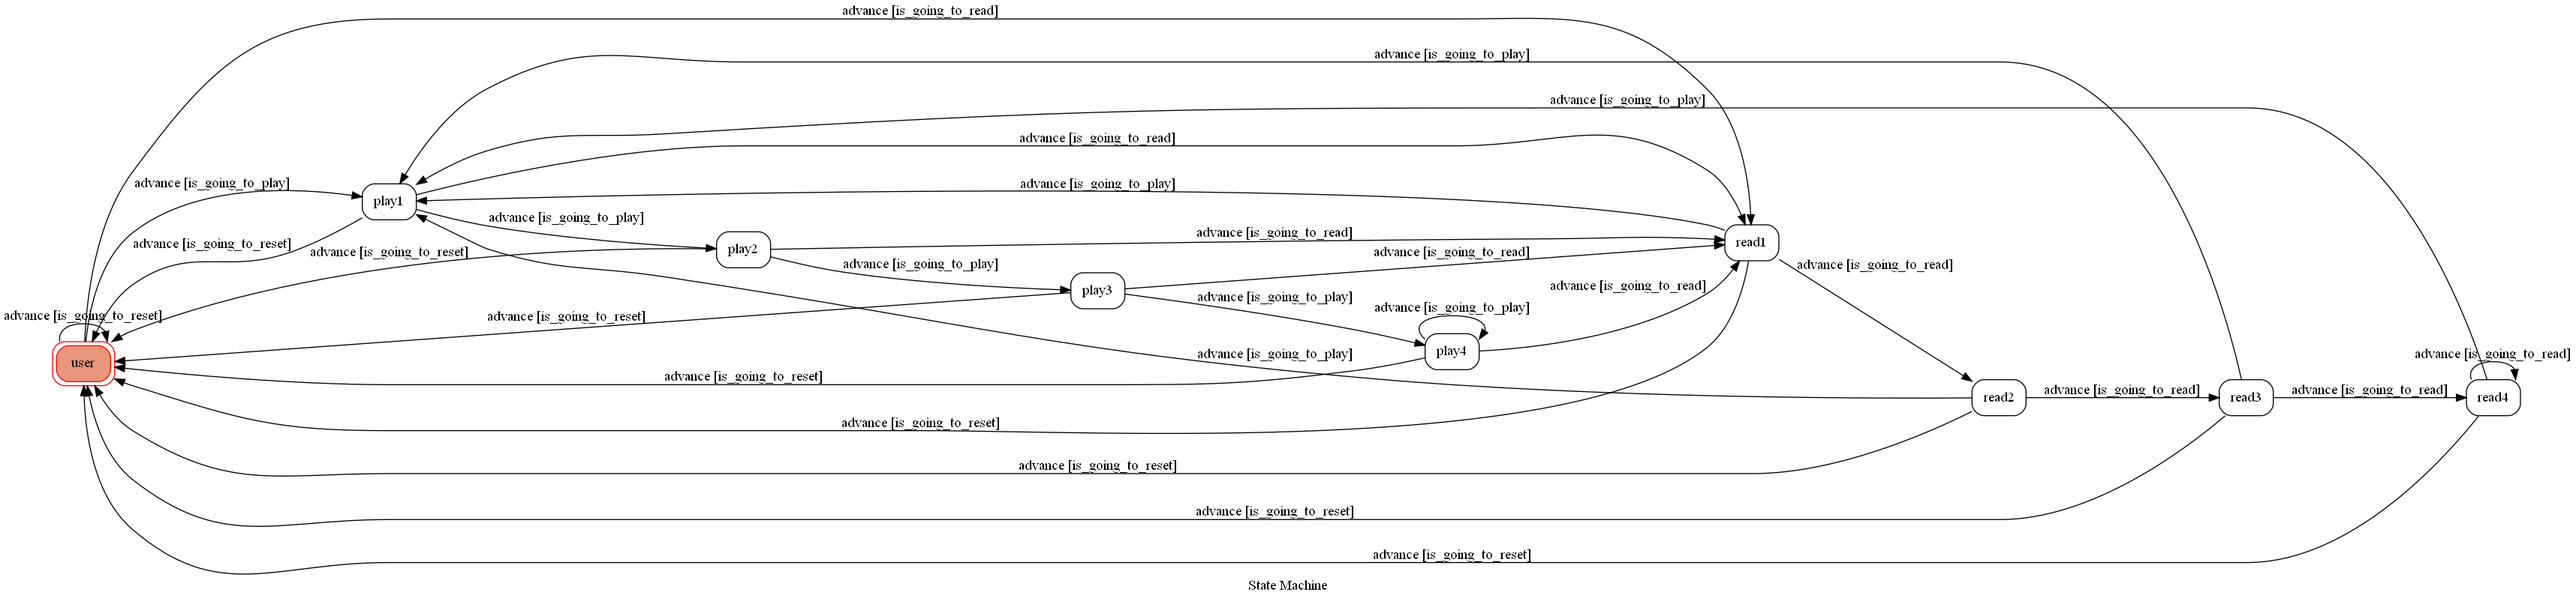
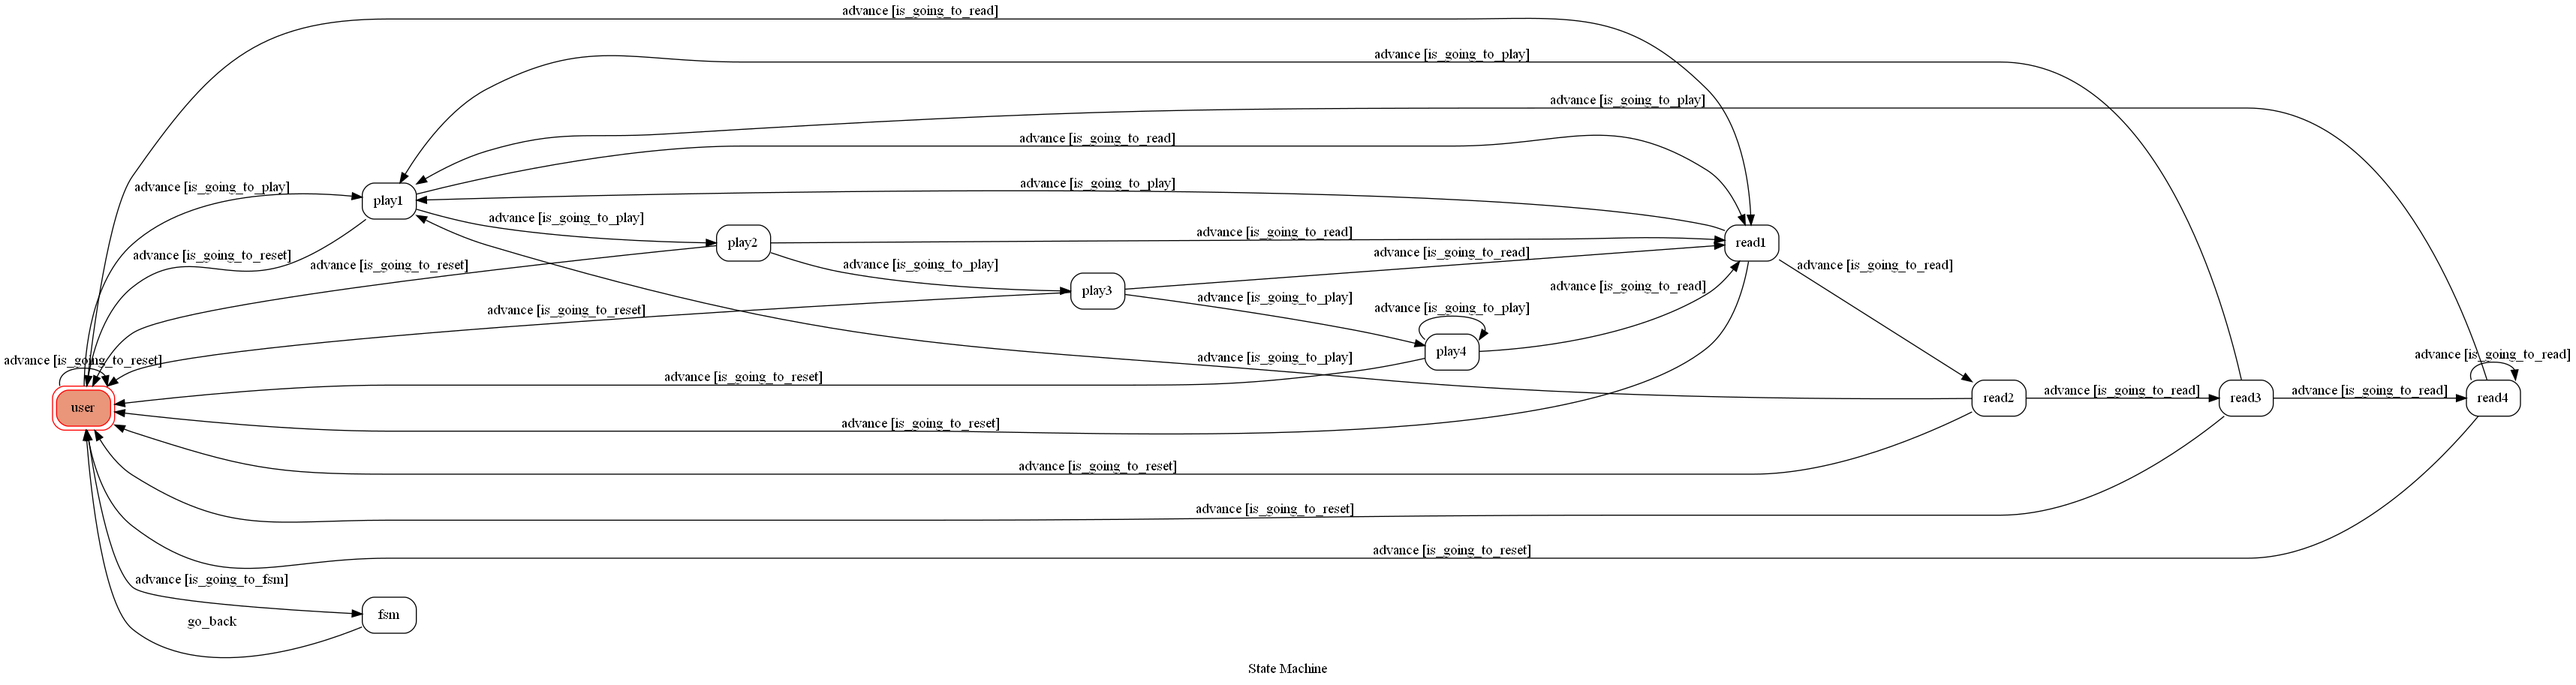
commit

diff --git a/app.py b/app.py
@@ -1,14 +1,14 @@
 import os
 import sys
 
-from flask import Flask, jsonify, request, abort, send_file
+from flask import Flask, request, abort, send_file
 from dotenv import load_dotenv
 from linebot import LineBotApi, WebhookParser
 from linebot.exceptions import InvalidSignatureError
-from linebot.models import MessageEvent, TextMessage, TextSendMessage
+from linebot.models import MessageEvent, TextMessage
 
 from fsm import TocMachine
-from img.machine import create_machine
+from machine import create_machine
 from utils import send_text_message
 
 load_dotenv()
@@ -88,14 +88,106 @@ def webhook_handler():
 
     return "OK"
 
-
+a = TocMachine(
+        states=["user", "play1", "play2", "play3", "play4", "read1", "read2", "read3", "read4", "fsm"],
+        transitions=[
+            {
+                "trigger": "advance",
+                "source": "user",
+                "dest": "play1",
+                "conditions": "is_going_to_play",
+            },
+            {
+                "trigger": "advance",
+                "source": "play1",
+                "dest": "play2",
+                "conditions": "is_going_to_play",
+            },
+            {
+                "trigger": "advance",
+                "source": "play2",
+                "dest": "play3",
+                "conditions": "is_going_to_play",
+            },
+            {
+                "trigger": "advance",
+                "source": "play3",
+                "dest": "play4",
+                "conditions": "is_going_to_play",
+            },
+            {
+                "trigger": "advance",
+                "source": "play4",
+                "dest": "play4",
+                "conditions": "is_going_to_play",
+            },
+            {
+                "trigger": "advance",
+                "source": "user",
+                "dest": "read1",
+                "conditions": "is_going_to_read",
+            },
+            {
+                "trigger": "advance",
+                "source": "read1",
+                "dest": "read2",
+                "conditions": "is_going_to_read",
+            },
+            {
+                "trigger": "advance",
+                "source": "read2",
+                "dest": "read3",
+                "conditions": "is_going_to_read",
+            },
+            {
+                "trigger": "advance",
+                "source": "read3",
+                "dest": "read4",
+                "conditions": "is_going_to_read",
+            },
+            {
+                "trigger": "advance",
+                "source": "read4",
+                "dest": "read4",
+                "conditions": "is_going_to_read",
+            },
+            {
+                "trigger": "advance",
+                "source": ["user", "play1", "play2", "play3", "play4", "read1", "read2", "read3", "read4"],
+                "dest": "user",
+                "conditions": "is_going_to_reset",
+            },
+            {
+                "trigger": "advance",
+                "source": ["play1", "play2", "play3", "play4"],
+                "dest": "read1",
+                "conditions": "is_going_to_read",
+            },
+            {
+                "trigger": "advance",
+                "source": ["read1", "read2", "read3", "read4"],
+                "dest": "play1",
+                "conditions": "is_going_to_play",
+            },
+            {
+                "trigger": "advance",
+                "source": "user",
+                "dest": "fsm",
+                "conditions": "is_going_to_fsm",
+            },
+            {"trigger": "go_back", "source": "fsm", "dest": "user"},
+        ],
+        initial="user",
+        auto_transitions=False,
+        show_conditions=True,
+    )
 @app.route("/show-fsm", methods=["GET"])
 def show_fsm():
-    machines.get_graph().draw("fsm.png", prog="dot", format="png")
+    a.get_graph().draw("fsm.png", prog="dot", format="png")
     return send_file("fsm.png", mimetype="image/png")
 
 
 if __name__ == "__main__":
-    # show_fsm()
+    show_fsm()
     port = os.environ.get("PORT", 8000)
     app.run(host="0.0.0.0", port=port, debug=True)

diff --git a/fsm.py b/fsm.py
@@ -1,6 +1,7 @@
+from linebot.models import ImageSendMessage
 from transitions.extensions import GraphMachine
 
-from utils import send_text_message
+from utils import send_text_message, send_image_url
 
 
 class TocMachine(GraphMachine):
@@ -18,6 +19,10 @@ class TocMachine(GraphMachine):
     def is_going_to_reset(self, event):
         text = event.message.text
         return text.lower() == "reset"
+
+    def is_going_to_fsm(self, event):
+        text = event.message.text
+        return text.lower() == "fsm"
 
     def on_enter_read1(self, event):
         print("I'm reading")
@@ -66,3 +71,11 @@ class TocMachine(GraphMachine):
 
         reply_token = event.reply_token
         send_text_message(reply_token, "Don't play anymore!")
+
+
+    def on_enter_fsm(self, event):
+        print("I'm in fsm")
+
+        reply_token = event.reply_token
+        send_image_url(reply_token, )
+

diff --git a/machine.py b/machine.py
@@ -3,7 +3,7 @@ from fsm import TocMachine
 
 def create_machine():
     machine = TocMachine(
-        states=["user", "play1", "play2", "play3", "play4", "read1", "read2", "read3", "read4"],
+        states=["user", "play1", "play2", "play3", "play4", "read1", "read2", "read3", "read4", "fsm"],
         transitions=[
             {
                 "trigger": "advance",
@@ -83,7 +83,13 @@ def create_machine():
                 "dest": "play1",
                 "conditions": "is_going_to_play",
             },
-
+            {
+                "trigger": "advance",
+                "source": "user",
+                "dest": "fsm",
+                "conditions": "is_going_to_fsm",
+            },
+            {"trigger": "go_back", "source": "fsm", "dest": "user"},
         ],
         initial="user",
         auto_transitions=False,

diff --git a/utils.py b/utils.py
@@ -1,8 +1,7 @@
 import os
 
 from linebot import LineBotApi, WebhookParser
-from linebot.models import MessageEvent, TextMessage, TextSendMessage
-
+from linebot.models import MessageEvent, TextMessage, TextSendMessage, ImageSendMessage
 
 channel_access_token = os.getenv("LINE_CHANNEL_ACCESS_TOKEN", None)
 
@@ -14,10 +13,12 @@ def send_text_message(reply_token, text):
     return "OK"
 
 
-"""
-def send_image_url(id, img_url):
-    pass
+def send_image_url(reply_token, img_url):
+    line_bot_api = LineBotApi(channel_access_token)
+    line_bot_api.reply_message(reply_token, ImageSendMessage(preview_image_url= img_url, original_content_url= img_url))
 
+
+""""
 def send_button_message(id, text, buttons):
     pass
 """
